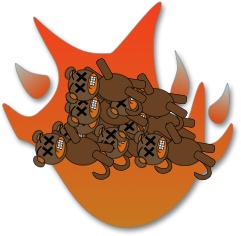
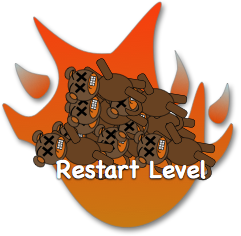
Configured the setupGameOver method in LevelEndView. Differentiates between losing by fire getting the banana or killing too many monkeys.

Changed region(s): [[0.2324, 0.6525, 0.5809, 0.7712], [0.61, 0.6822, 0.8714, 0.7712]]

diff --git a/MonkeySwing/MyScene.m b/MonkeySwing/MyScene.m
@@ -133,7 +133,7 @@ static const uint32_t bonusObjectCategory = 0x1 << 2;
     
     // Add score
     SKLabelNode *scoreHudLabel = [SKLabelNode labelNodeWithFontNamed:@"Chalkboard SE"];
-    scoreHudLabel.position = CGPointMake(sceneFarLeftSide.x + hudBanana.size.width + 10, sceneFarTopSide.y);
+    scoreHudLabel.position = CGPointMake(sceneFarLeftSide.x + hudBanana.size.width + 20, sceneFarTopSide.y);
     scoreHudLabel.verticalAlignmentMode = SKLabelVerticalAlignmentModeTop;
     scoreHudLabel.zPosition = 120;
     scoreHudLabel.fontColor = [SKColor whiteColor];
@@ -150,9 +150,12 @@ static const uint32_t bonusObjectCategory = 0x1 << 2;
     
     // If fire got all the way, game over
     if (fractionFireProgress >= 1.0) {
+        // Configure PlayerLevelRunData
+        playerLevelRunData.fireProgression = fractionFireProgress;
+        
         // Show level end view
         CGPoint centerInView = [self convertPointToView:CGPointMake(sceneFarLeftSide.x + sceneWidth/2, 0)];
-        LevelEndView *levelEndView = [[LevelEndView alloc] initWithFrame:CGRectMake(0, 0, 300, 300) forOutcome:@"gameOver" withRunData:playerLevelRunData];
+        LevelEndView *levelEndView = [[LevelEndView alloc] initWithFrame:CGRectMake(0, 0, self.size.width, self.size.height) forOutcome:@"gameOver" withRunData:playerLevelRunData];
         levelEndView.center = centerInView;
         levelEndView.tag = 1;
         [self.view addSubview:levelEndView];
@@ -297,8 +300,8 @@ static const uint32_t bonusObjectCategory = 0x1 << 2;
     
     // Show level end view
     CGPoint centerInView = [self convertPointToView:CGPointMake(sceneFarLeftSide.x + sceneWidth/2, 0)];
-    LevelEndView *levelEndView = [[LevelEndView alloc] initWithFrame:CGRectMake(0, 0, self.view.bounds.size.width, self.view.bounds.size.height) forOutcome:@"monkeyFell" withRunData:playerLevelRunData];
-    //LevelEndView *levelEndView = [[LevelEndView alloc] initWithFrame:CGRectMake(0, 0, 300, 300) forOutcome:@"monkeyWon" withRunData:playerLevelRunData]; // Just for debugging purposes
+    LevelEndView *levelEndView = [[LevelEndView alloc] initWithFrame:CGRectMake(0, 0, self.size.width, self.size.height) forOutcome:@"monkeyFell" withRunData:playerLevelRunData];
+    //LevelEndView *levelEndView = [[LevelEndView alloc] initWithFrame:CGRectMake(0, 0, self.size.width, self.size.height) forOutcome:@"monkeyWon" withRunData:playerLevelRunData]; // Just for debugging purposes
     levelEndView.center = centerInView;
     levelEndView.tag = 1;
     [self.view addSubview:levelEndView];
@@ -321,7 +324,7 @@ static const uint32_t bonusObjectCategory = 0x1 << 2;
     
     // Show level end view
     CGPoint centerInView = [self convertPointToView:CGPointMake(sceneFarLeftSide.x + sceneWidth/2, 0)];
-    LevelEndView *levelEndView = [[LevelEndView alloc] initWithFrame:CGRectMake(0, 0, 300, 300) forOutcome:@"monkeyWon" withRunData:playerLevelRunData];
+    LevelEndView *levelEndView = [[LevelEndView alloc] initWithFrame:CGRectMake(0, 0, self.size.width, self.size.height) forOutcome:@"monkeyWon" withRunData:playerLevelRunData];
     levelEndView.center = centerInView;
     levelEndView.tag = 1;
     [self.view addSubview:levelEndView];

diff --git a/MonkeySwing/LevelEndView.m b/MonkeySwing/LevelEndView.m
@@ -87,8 +87,44 @@
 
 - (void)setupGameOver
 {
-    // TODO: Implement method
+    // Prepare the correct image for the restart button
+    UIImage *gameOverImage;
+    UILabel *gameOverLabel = [[UILabel alloc] initWithFrame:CGRectMake(self.center.x, self.center.y, 400, 40)];
+    if (playerLevelRunData.fireProgression >= 1) {
+        gameOverImage = [UIImage imageNamed:@"GameOverByFireButton"];
+        gameOverLabel.text = @"The fire consumed your bananna!";
+    } else {
+        gameOverImage = [UIImage imageNamed:@"DeadMonkeysButton"];
+        gameOverLabel.text = @"You killed all the monkeys!";
+    }
     
+    // Game over button
+    UIButton *gameOverButton = [UIButton buttonWithType:UIButtonTypeCustom];
+    gameOverButton.frame = CGRectMake(0, 0, gameOverImage.size.width, gameOverImage.size.height);
+    gameOverButton.center = self.center;
+    [gameOverButton setImage:gameOverImage forState:UIControlStateNormal];
+    [gameOverButton setImage:[UIImage imageNamed:@"GameOverByFireButtonClicked"] forState:UIControlStateSelected];
+    [gameOverButton addTarget:self action:@selector(playAgainAction) forControlEvents:UIControlEventTouchUpInside];
+    gameOverButton.opaque = YES;
+    [self addSubview:gameOverButton];
+    
+    // Game over label
+    gameOverLabel.font = [UIFont fontWithName:@"Chalkboard SE" size:26];
+    gameOverLabel.textAlignment = NSTextAlignmentCenter;
+    gameOverLabel.center = CGPointMake(self.center.x, 26);
+    gameOverLabel.textColor = [UIColor whiteColor];
+    [self addSubview:gameOverLabel];
+    
+    // Menu button
+    UIImage *menuImage = [UIImage imageNamed:@"MenuButton"];
+    UIButton *menuButton = [UIButton buttonWithType:UIButtonTypeCustom];
+    menuButton.frame = CGRectMake(0, 0, menuImage.size.width, menuImage.size.height);
+    menuButton.center = CGPointMake(self.bounds.size.width - menuImage.size.width/2 - 10, self.bounds.size.height - menuImage.size.height/2 - 10);
+    [menuButton setImage:menuImage forState:UIControlStateNormal];
+    [menuButton setImage:[UIImage imageNamed:@"MenuButtonClicked"] forState:UIControlStateSelected];
+    [menuButton addTarget:self action:@selector(menuAction) forControlEvents:UIControlEventTouchUpInside];
+    menuButton.opaque = YES;
+    [self addSubview:menuButton];
 }
 
 - (void)setupMonkeyWon
